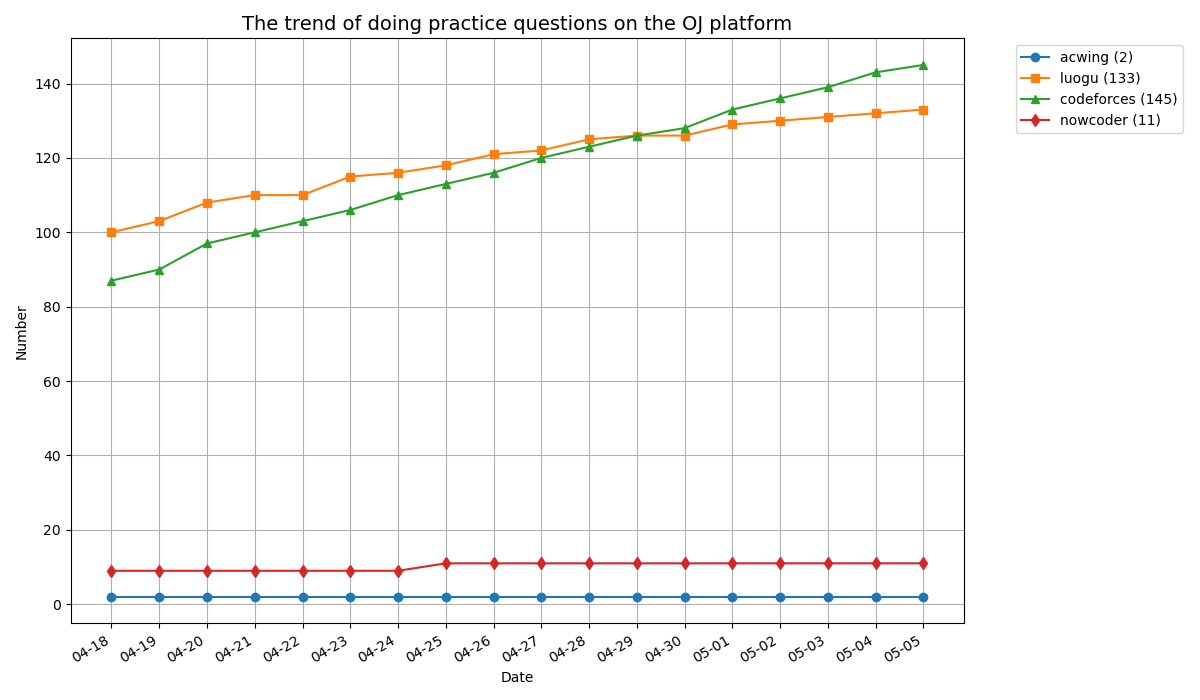
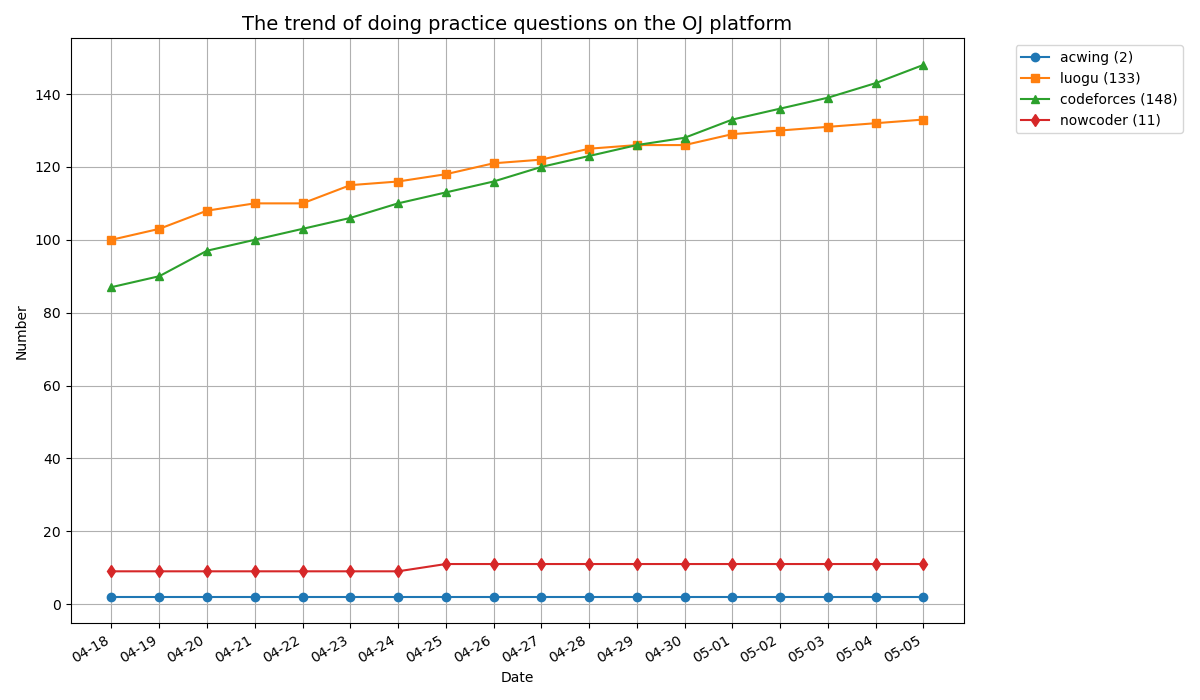
update

diff --git a/codeforces/Con1023/A/main.cpp b/codeforces/Con1023/A/main.cpp
@@ -1,0 +1,88 @@
+#include <bits/stdc++.h>
+using namespace std;
+
+#define ALL(x) (x).begin(), (x).end()
+#define MAXV(a, l, r) *std::max_element((a).begin() + (l), (a).begin() + (r))
+#define MINV(a, l, r) *std::min_element((a).begin() + (l), (a).begin() + (r))
+
+using ll = long long int;
+using ull = unsigned long long int;
+using PII = pair<int, int>;
+
+#define DEBUG
+
+#ifdef DEBUG
+template <typename Container>
+void PrintCon(const Container& cont)
+{
+    std::cout << "{ ";
+    if (!cont.empty()) {
+        auto it = cont.begin();
+        std::cout << "\033[33m" << *it++ << "\033[0m";
+        for (; it != cont.end(); ++it)
+            std::cout << " | " << "\033[33m" << *it << "\033[0m";
+    }
+    std::cout << " }" << std::endl;
+}
+
+template <typename... Args>
+void LOG(Args&&... values)
+{
+    ((std::cout << "\033[33m" << std::forward<Args>(values) << "\033[0m" << " "), ...);
+    std::cout << std::endl;
+}
+#else
+template <typename... Args>
+void LOG(Args&... args);
+
+template <typename Container>
+void PrintCon(const Container& cont);
+#endif
+
+void solve()
+{
+    int n;
+    cin >> n;
+    vector<int> a(n);
+    for (int i = 0; i < n; i++) {
+        cin >> a[i];
+    }
+    int g = a[0];
+    for (int i = 1; i < n; i++) {
+        g = gcd(g, a[i]);
+    }
+
+    bool is_same = true;
+    int p = -1;
+    for (int i = 0; i < n; i++) {
+        if (a[i] != g) {
+            is_same = false;
+            p = i;
+            break;
+        }
+    }
+    if (is_same) {
+        cout << "No" << endl;
+    } else {
+        cout << "Yes" << endl;
+        vector<int> ans(n, 2);
+        ans[p] = 1;
+        for (int x : ans) {
+            cout << x << ' ';
+        }
+        cout << endl;
+    }
+}
+
+int main()
+{
+    ios::sync_with_stdio(false);
+    cin.tie(nullptr);
+    int t;
+    cin >> t;
+    while (t--) {
+        solve();
+    }
+
+    return 0;
+}

diff --git a/codeforces/Con1023/B/main.cpp b/codeforces/Con1023/B/main.cpp
@@ -1,0 +1,81 @@
+#include <bits/stdc++.h>
+using namespace std;
+
+#define ALL(x) (x).begin(), (x).end()
+#define MAXV(a, l, r) *std::max_element((a).begin() + (l), (a).begin() + (r))
+#define MINV(a, l, r) *std::min_element((a).begin() + (l), (a).begin() + (r))
+
+using ll = long long int;
+using ull = unsigned long long int;
+using PII = pair<int, int>;
+
+#define DEBUG
+
+#ifdef DEBUG
+template <typename Container>
+void PrintCon(const Container& cont)
+{
+    std::cout << "{ ";
+    if (!cont.empty()) {
+        auto it = cont.begin();
+        std::cout << "\033[33m" << *it++ << "\033[0m";
+        for (; it != cont.end(); ++it)
+            std::cout << " | " << "\033[33m" << *it << "\033[0m";
+    }
+    std::cout << " }" << std::endl;
+}
+
+template <typename... Args>
+void LOG(Args&&... values)
+{
+    ((std::cout << "\033[33m" << std::forward<Args>(values) << "\033[0m" << " "), ...);
+    std::cout << std::endl;
+}
+#else
+template <typename... Args>
+void LOG(Args&... args);
+
+template <typename Container>
+void PrintCon(const Container& cont);
+#endif
+
+void solve()
+{
+    int n, k;
+    cin >> n >> k;
+    vector<ll> a(n);
+
+    ll mx = numeric_limits<ll>::min(), mn = numeric_limits<ll>::max();
+    ll sum = 0;
+
+    for (int i = 0; i < n; i++) {
+        cin >> a[i];
+        mn = min(mn, a[i]);
+        mx = max(mx, a[i]);
+        sum += a[i];
+    }
+    ll cnt = 0;
+    for (int i = 0; i < n; i++) {
+        if (a[i] == mx) {
+            cnt++;
+        }
+    }
+    if (mx - mn - 1 > k || (mx - mn - 1 == k && cnt > 1)) {
+        cout << "Jerry" << endl;
+    } else {
+        cout << (sum & 1 ? "Tom" : "Jerry") << endl;
+    }
+}
+
+int main()
+{
+    ios::sync_with_stdio(false);
+    cin.tie(nullptr);
+    int t;
+    cin >> t;
+    while (t--) {
+        solve();
+    }
+
+    return 0;
+}

diff --git a/codeforces/1335A/main.cpp b/codeforces/1335A/main.cpp
@@ -1,0 +1,59 @@
+#include <bits/stdc++.h>
+using namespace std;
+
+
+#define ALL(x) (x).begin(), (x).end()
+#define MAXV(a, l, r) *std::max_element((a).begin() + (l), (a).begin() + (r))
+#define MINV(a, l, r) *std::min_element((a).begin() + (l), (a).begin() + (r))
+
+
+using ll = long long int;
+using ull = unsigned long long int;
+using PII = pair<int,int>;
+
+#define DEBUG
+
+#ifdef DEBUG
+template<typename Container>
+void PrintCon(const Container& cont) {
+    std::cout << "{ ";
+    if (!cont.empty()) {
+        auto it = cont.begin();
+        std::cout <<"\033[33m"<< *it++<< "\033[0m";
+        for (; it != cont.end(); ++it)
+            std::cout << " | " <<"\033[33m"<< *it<< "\033[0m";
+    }
+    std::cout << " }" << std::endl;
+}
+
+template<typename... Args>
+void LOG(Args&&... values) {
+    ((std::cout <<"\033[33m"<< std::forward<Args>(values) << "\033[0m"<< " "), ...);
+    std::cout << std::endl;
+}
+#else
+template<typename ...Args>
+void LOG(Args& ...args);
+    
+template<typename Container>
+void PrintCon(const Container& cont);
+#endif
+
+
+void solve(){
+    ll a;
+    cin>>a;
+    cout<<(a-1)/2<<endl;
+}
+
+int main(){
+    ios::sync_with_stdio(false);
+    cin.tie(nullptr);
+    int t;
+    cin>>t;
+    while(t--){
+        solve();
+    }
+
+    return 0;
+}
